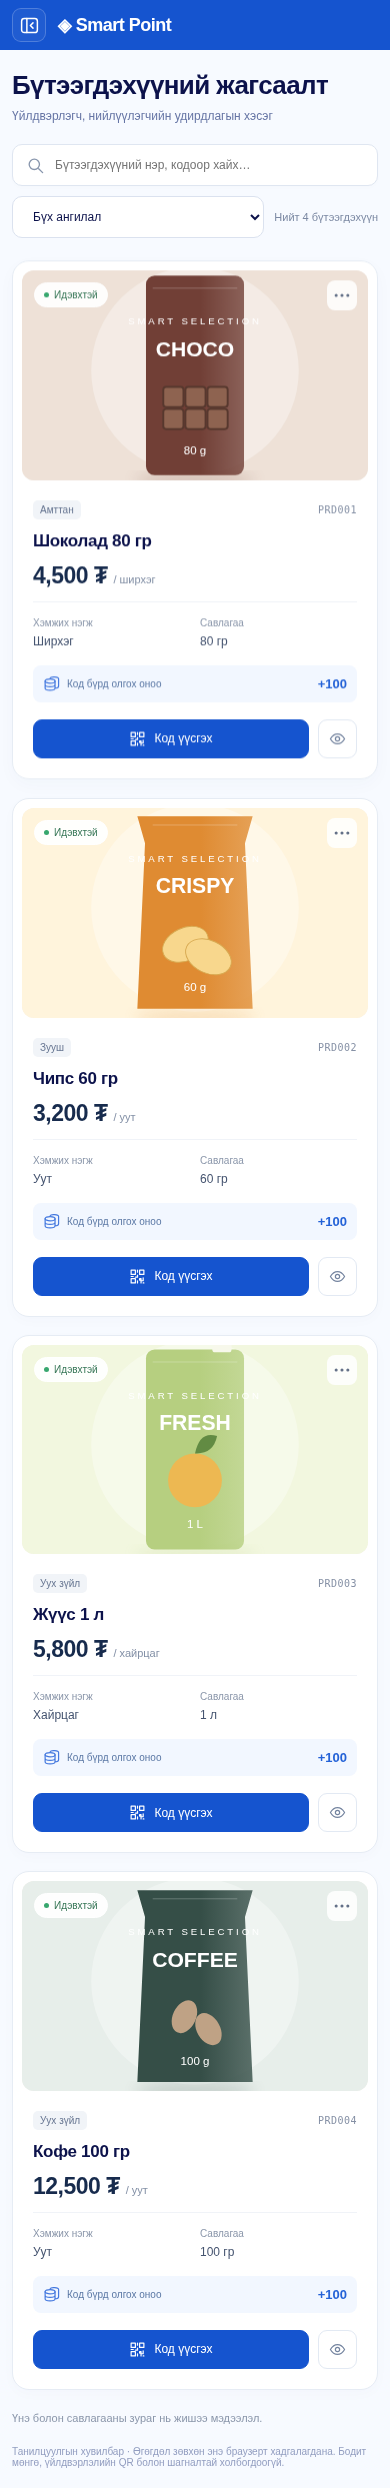
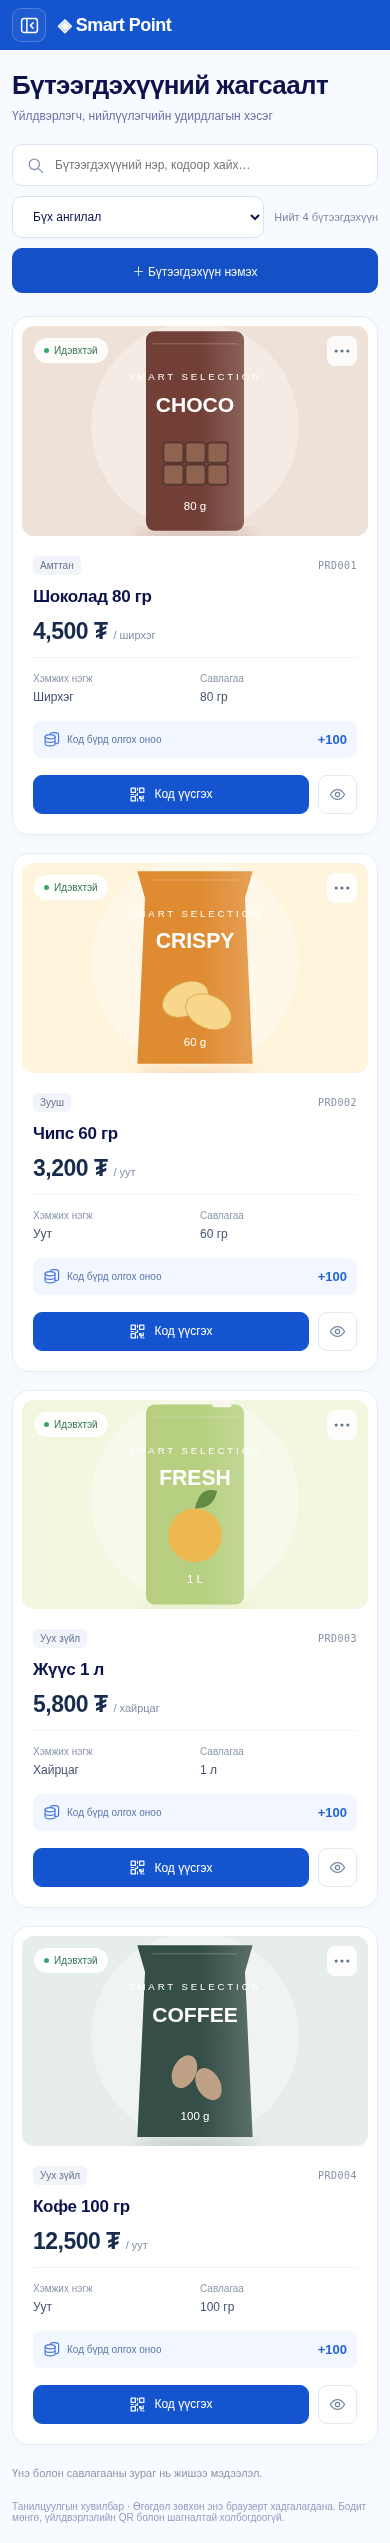
Add product creation dialog with image upload and persistent catalog

diff --git a/assets/app.js b/assets/app.js
@@ -1,12 +1,12 @@
 'use strict';
 const $=id=>document.getElementById(id), fmt=n=>Number(n).toLocaleString('en-US'), esc=s=>String(s).replace(/[&<>"']/g,c=>({'&':'&amp;','<':'&lt;','>':'&gt;','"':'&quot;',"'":'&#39;'}[c]));
 const today=()=>new Date().toISOString().slice(0,10);const seed={balance:24850,rate:100,spinCost:500,codes:[],transactions:[{title:'Шоколад 80 гр',amount:100,date:today(),kind:'Код'},{title:'Купон худалдан авалт',amount:-500,date:today(),kind:'Купон'}],claims:[],completed:[],users:[['Б.Ануударь','9901 2345'],['Г.Энхбат','8811 5678'],['С.Уянга','9966 7788'],['Д.Цэцэг','8800 1122'],['М.Оргил','9911 3344']]};let db,storageAvailable=true;try{db=JSON.parse(localStorage.getItem('smartpoint-v1'))||structuredClone(seed)}catch{db=structuredClone(seed);storageAvailable=false}let page='dashboard';
-function save(){try{localStorage.setItem('smartpoint-v1',JSON.stringify(db))}catch{storageAvailable=false;toast('Браузер хадгалах боломжгүй. Өгөгдөл зөвхөн энэ хуудсанд үлдэнэ.')}}function toast(t){$('toast').textContent=t;$('toast').style.display='block';clearTimeout(toast.timer);toast.timer=setTimeout(()=>$('toast').style.display='none',4000)}function modal(title,body){$('dialogTitle').textContent=title;$('dialogBody').innerHTML=body;$('dialog').showModal()}$('close').onclick=()=>$('dialog').close();$('menu').onclick=()=>{if(matchMedia('(max-width:600px)').matches){const open=$('sidebar').classList.toggle('open');$('menu').setAttribute('aria-expanded',String(open));}else{const collapsed=document.body.classList.toggle('sidebar-collapsed');$('menu').setAttribute('aria-expanded',String(!collapsed));$('menu').title=collapsed?'Цэс дэлгэх':'Цэс хураах';}};
+function save(){try{localStorage.setItem('smartpoint-v1',JSON.stringify(db));return true}catch{storageAvailable=false;toast('Браузер хадгалах боломжгүй. Өгөгдөл зөвхөн энэ хуудсанд үлдэнэ.');return false}}function toast(t){$('toast').textContent=t;$('toast').style.display='block';clearTimeout(toast.timer);toast.timer=setTimeout(()=>$('toast').style.display='none',4000)}function modal(title,body){$('dialogTitle').textContent=title;$('dialogBody').innerHTML=body;$('dialog').showModal()}$('close').onclick=()=>$('dialog').close();$('menu').onclick=()=>{if(matchMedia('(max-width:600px)').matches){const open=$('sidebar').classList.toggle('open');$('menu').setAttribute('aria-expanded',String(open));}else{const collapsed=document.body.classList.toggle('sidebar-collapsed');$('menu').setAttribute('aria-expanded',String(!collapsed));$('menu').title=collapsed?'Цэс дэлгэх':'Цэс хураах';}};
 
 const adminMenu=[
 ['dashboard','Хяналтын самбар',[]],
 ['settings','Тохиргоо',[['organization','Байгууллагын мэдээлэл'],['staff','Ажилтнууд'],['roles','Албан үүрэг, хандах эрх'],['audit','Үйлдлийн түүх']]],
-['products','Бүтээгдэхүүн',[['product-list','Бүтээгдэхүүний жагсаалт'],['categories','Ангилал'],['batches','Бүтээгдэхүүний цуврал']]],
+['products','Бүтээгдэхүүн',[['product-list','Бүтээгдэхүүний жагсаалт'],['product-new','Шинэ бүтээгдэхүүн'],['categories','Ангилал'],['batches','Бүтээгдэхүүний цуврал']]],
 ['codes','Unique код / QR',[['code-list','Кодын жагсаалт'],['code-generate','Бөөнөөр код үүсгэх'],['code-print','Хэвлэлд гаргах'],['code-activate','Идэвхжүүлэх / идэвхгүй болгох'],['code-history','Код ашиглалтын түүх']]],
 ['points','Оноо',[['point-rules','Оноо олгох нөхцөл'],['point-expiry','Онооны хүчинтэй хугацаа'],['point-transactions','Онооны гүйлгээ']]],
 ['wheel','Хүрд',[['wheel-list','Хүрдний жагсаалт'],['wheel-prizes','Шагнал, магадлал, нөөц'],['wheel-rules','Эргүүлэх эрхийн нөхцөл'],['wheel-history','Эргэлт, хожлын түүх']]],
@@ -20,26 +20,44 @@ const adminMenu=[
 let selectedAdmin='dashboard';const expandedMenus=new Set();
 function menuItem(item,depth=0){const [id,label,children=[]]=item;const selected=id===selectedAdmin;const contains=children.some(c=>c[0]===selectedAdmin||(c[2]||[]).some(d=>d[0]===selectedAdmin));return `<div class="menu-node"><button type="button" data-admin="${id}" title="${label}" ${children.length?`aria-expanded="${expandedMenus.has(id)}" aria-controls="submenu-${id}"`:selected?'aria-current="page"':''} class="menu-button depth-${depth} ${selected?'active':''} ${contains?'has-selection':''}">${depth===0?`<span class="menu-icon">${lineIcon(id==='fulfillment'?'gift':id)}</span>`:'<span class="menu-bullet"></span>'}<span class="menu-label">${label}</span>${children.length?`<span class="menu-chevron">${lineIcon('chevron')}</span>`:''}</button>${children.length?`<div id="submenu-${id}" class="submenu" ${expandedMenus.has(id)?'':'hidden'}>${children.map(c=>menuItem(c,depth+1)).join('')}</div>`:''}</div>`}
 function findAdmin(id,items=adminMenu){for(const item of items){if(item[0]===id)return item;const child=findAdmin(id,item[2]||[]);if(child)return child}return null}
-const routes={'product-list':'products','code-list':'codes','code-generate':'codes','code-print':'codes','code-activate':'codes','point-rules':'settings','point-transactions':'points','user-list':'users','user-points':'points','report-points':'reports'};
+const routes={'product-list':'products','product-new':'products','code-list':'codes','code-generate':'codes','code-print':'codes','code-activate':'codes','point-rules':'settings','point-transactions':'points','user-list':'users','user-points':'points','report-points':'reports'};
 function go(p){page=p;{const group=adminMenu.find(x=>x[0]===p);if(group&&group[2].length){expandedMenus.add(p);selectedAdmin=group[2][0][0]}else selectedAdmin=p;}render();$('sidebar').classList.remove('open');window.scrollTo(0,0)}
-function render(){$('nav').innerHTML=`<div class="menu-controls"><button type="button" id="expandMenus">Бүгдийг дэлгэх</button><button type="button" id="collapseMenus">Хумих</button></div>`+adminMenu.map(i=>menuItem(i)).join('');$('expandMenus').onclick=()=>{function expand(items){items.forEach(i=>{if(i[2]?.length){expandedMenus.add(i[0]);expand(i[2]);}})}expand(adminMenu);render()};$('collapseMenus').onclick=()=>{expandedMenus.clear();render()};document.querySelectorAll('[data-admin]').forEach(b=>b.onclick=()=>{const id=b.dataset.admin,item=findAdmin(id);if(item[2]?.length){document.body.classList.remove('sidebar-collapsed');$('menu').setAttribute('aria-expanded','true');expandedMenus.has(id)?expandedMenus.delete(id):expandedMenus.add(id);render();return}selectedAdmin=id;page=id;render();$('sidebar').classList.remove('open');window.scrollTo(0,0)});const active=findAdmin(selectedAdmin);$('title').textContent=active[1];$('subtitle').textContent=selectedAdmin==='dashboard'?'Smart Point системийн үйл ажиллагааны нэгдсэн мэдээлэл':'Үйлдвэрлэгч, нийлүүлэгчийн удирдлагын хэсэг';$('filters').style.display=page==='dashboard'?'flex':'none';const views={dashboard,users,settings,products,codes,points,reports};const target=routes[selectedAdmin]||(selectedAdmin==='dashboard'?'dashboard':null);$('view').innerHTML=target?views[target]():panel(active[1],'<div class="empty"><p>Энэ хэсгийн цэс, дэлгэцийн бүтэц бэлэн боллоо.</p><p>Дэлгэрэнгүй удирдлагын боломжийг дараагийн хөгжүүлэлтээр нэмнэ.</p></div>');bind();}
+function render(){$('nav').innerHTML=`<div class="menu-controls"><button type="button" id="expandMenus">Бүгдийг дэлгэх</button><button type="button" id="collapseMenus">Хумих</button></div>`+adminMenu.map(i=>menuItem(i)).join('');$('expandMenus').onclick=()=>{function expand(items){items.forEach(i=>{if(i[2]?.length){expandedMenus.add(i[0]);expand(i[2]);}})}expand(adminMenu);render()};$('collapseMenus').onclick=()=>{expandedMenus.clear();render()};document.querySelectorAll('[data-admin]').forEach(b=>b.onclick=()=>{const id=b.dataset.admin,item=findAdmin(id);if(item[2]?.length){document.body.classList.remove('sidebar-collapsed');$('menu').setAttribute('aria-expanded','true');expandedMenus.has(id)?expandedMenus.delete(id):expandedMenus.add(id);render();return}selectedAdmin=id;page=id;render();$('sidebar').classList.remove('open');window.scrollTo(0,0);if(id==='product-new')openProductForm()});const active=findAdmin(selectedAdmin);$('title').textContent=active[1];$('subtitle').textContent=selectedAdmin==='dashboard'?'Smart Point системийн үйл ажиллагааны нэгдсэн мэдээлэл':'Үйлдвэрлэгч, нийлүүлэгчийн удирдлагын хэсэг';$('filters').style.display=page==='dashboard'?'flex':'none';const views={dashboard,users,settings,products,codes,points,reports};const target=routes[selectedAdmin]||(selectedAdmin==='dashboard'?'dashboard':null);$('view').innerHTML=target?views[target]():panel(active[1],'<div class="empty"><p>Энэ хэсгийн цэс, дэлгэцийн бүтэц бэлэн боллоо.</p><p>Дэлгэрэнгүй удирдлагын боломжийг дараагийн хөгжүүлэлтээр нэмнэ.</p></div>');bind();}
 
 function table(head,rows){return `<div class="table-wrap"><table><thead><tr>${head.map(x=>`<th>${x}</th>`).join('')}</tr></thead><tbody>${rows.join('')||`<tr><td colspan="${head.length}" class="empty">Одоогоор мэдээлэл алга</td></tr>`}</tbody></table></div>`}const tr=cells=>`<tr>${cells.map(x=>`<td>${x}</td>`).join('')}</tr>`;function panel(title,content,action=''){return `<section class="panel"><div class="panel-head"><h2>${title}</h2>${action}</div>${content}</section>`}function stat(icon,label,value,gain,previous){return `<div class="stat"><div class="stat-icon">${lineIcon(({'♙':'users','♙+':'addUser','▦':'codes','✓':'check','◎':'coins','♔':'gift','♧':'coupons','▤':'surveys','☑':'tasks'})[icon]||'points')}</div><div><div class="stat-label">${label}</div><div class="stat-value">${value}<span class="gain">↑ +${gain}%</span></div><small>Өмнөх хугацаа: ${previous}</small></div></div>`}
 function chart(){return `<svg class="chart" viewBox="0 0 800 180" role="img" aria-label="Жишээ онооны хөдөлгөөний график"><defs><linearGradient id="area" x1="0" y1="0" x2="0" y2="1"><stop stop-color="#38aaff" stop-opacity=".4"/><stop offset="1" stop-color="#38aaff" stop-opacity=".02"/></linearGradient></defs>${[20,55,90,125,160].map((y,i)=>`<line x1="55" y1="${y}" x2="790" y2="${y}" stroke="#e8edf5" stroke-dasharray="4 3"/><text x="2" y="${y+4}">${fmt(400000-i*100000)}</text>`).join('')}<path d="M55 125 L100 108 L145 111 L190 90 L235 80 L280 51 L325 72 L370 104 L415 95 L460 84 L505 80 L550 65 L595 104 L640 98 L685 103 L730 83 L780 92 L780 160 L55 160Z" fill="url(#area)"/><polyline points="55,125 100,108 145,111 190,90 235,80 280,51 325,72 370,104 415,95 460,84 505,80 550,65 595,104 640,98 685,103 730,83 780,92" fill="none" stroke="#0866ff" stroke-width="2.5"/><path d="M55 145 L100 139 L145 135 L190 129 L235 127 L280 110 L325 118 L370 136 L415 129 L460 115 L505 123 L550 116 L595 130 L640 122 L685 131 L730 123 L780 124" fill="none" stroke="#00bfb5" stroke-width="2.5"/>${Array.from({length:16},(_,i)=>`<text x="${52+i*47}" y="177">10/${String(i+1).padStart(2,'0')}</text>`).join('')}</svg>`}
 function dashboard(){return `<div class="stats">${stat('♙','Нийт хэрэглэгч','12,560',12,'11,220')}${stat('♙+','Шинээр бүртгэгдсэн','620',18,'525')}${stat('▦','Үүсгэсэн Unique код',fmt(150000+db.codes.length),25,'120,000')}${stat('✓','Ашигласан Unique код',fmt(98450+db.codes.filter(c=>c.used).length),22,'80,750')}</div><div class="stats secondary">${stat('◎','Олгосон оноо','4,850,000',20,'4,040,000')}${stat('◎','Зарцуулсан оноо','1,920,000',15,'1,670,000')}${stat('♔','Хүрд эргүүлсэн','3,450',28,'2,690')}${stat('♧','Купон худалдан авалт','1,280',16,'1,100')}${stat('▤','Судалгаанд оролцсон','2,150',35,'1,590')}${stat('☑','Даалгавар гүйцэтгэсэн','1,780',32,'1,590')}</div><div class="charts">${panel('Онооны хөдөлгөөн',chart(),'<div class="legend"><span><i class="dot"></i>Олгосон оноо</span><span><i class="dot" style="background:#00bfb5"></i>Зарцуулсан оноо</span></div>')}${panel('Онооны зарцуулалт (төрлөөр)',`<div class="donut-wrap"><div class="donut"><div>1,920,000<small>Нийт зарцуулсан<br>оноо</small></div></div><div class="donut-labels">${['Купон','Хүрд','Даалгавар','Судалгаа','Бусад'].map((x,i)=>`<div><i class="dot" style="background:${['#0966ff','#850dff','#ffad08','#ffbd32','#8997b4'][i]}"></i>${x}<b>${[42,28,15,10,5][i]}%</b></div>`).join('')}</div></div>`)}</div><div class="tables">${panel('Сүүлд бүртгүүлсэн хэрэглэгчид',dashboardUsers(),'<button data-go="users">Бүгдийг харах ›</button>')}${panel('Сүүлийн Unique кодын ашиглалт',dashboardCodes(),'<button data-go="codes">Бүгдийг харах ›</button>')}${panel('Сүүлийн урамшууллын үйл ажиллагаа',dashboardActivity(),'<button data-go="points">Бүгдийг харах ›</button>')}</div>`}
 function userTable(){return table(['№','Нэр','Утас','Төлөв'],db.users.map((u,i)=>tr([i+1,esc(u[0]),esc(u[1]),'<span class="badge">Идэвхтэй</span>'])))}function users(){return panel('Бүртгэлтэй хэрэглэгчид',`<div class="toolbar"><input id="search" placeholder="Нэр эсвэл утсаар хайх" aria-label="Хэрэглэгч хайх"></div><div id="userResults">${userTable()}</div>`)}
 function settings(){return panel('Үйлдвэрлэгч, нийлүүлэгчийн оноо олгох нөхцөл',`<form id="settingsForm"><div class="toolbar"><label>Бүтээгдэхүүний код бүрд олгох оноо<input id="rate" type="number" required min="1" max="100000" value="${db.rate}"></label><label>Хүрд эргүүлэх үнэ (оноо)<input id="spinCost" type="number" required min="1" max="100000" value="${db.spinCost}"></label><button class="primary">Хадгалах</button></div></form><p>Өөрчлөлтөөс хойш ашигласан код болон хүрдэд шинэ нөхцөл үйлчилнэ. Админ эрхийн серверийн баталгаажуулалт энэ хувилбарт ороогүй.</p>`)}
-const productList=[['PRD001','Шоколад 80 гр','🍫'],['PRD002','Чипс 60 гр','🥔'],['PRD003','Жүүс 1 л','🧃'],['PRD004','Кофе 100 гр','☕']];const productDetails=[{code:'PRD001',name:'Шоколад 80 гр',category:'Амттан',price:4500,unit:'Ширхэг',size:'80 гр',image:'chocolate'},{code:'PRD002',name:'Чипс 60 гр',category:'Зууш',price:3200,unit:'Уут',size:'60 гр',image:'chips'},{code:'PRD003',name:'Жүүс 1 л',category:'Уух зүйл',price:5800,unit:'Хайрцаг',size:'1 л',image:'juice'},{code:'PRD004',name:'Кофе 100 гр',category:'Уух зүйл',price:12500,unit:'Уут',size:'100 гр',image:'coffee'}];
-function productCard(p){return `<article class="product-card"><div class="product-image"><img src="assets/products/${p.image}.svg" alt="${p.name} бүтээгдэхүүний жишээ савлагаа"><span class="product-status"><i></i>Идэвхтэй</span><button class="product-more" data-detail="${p.code}" aria-label="${p.name} дэлгэрэнгүй">${lineIcon('more')}</button></div><div class="product-content"><div class="product-meta"><span>${p.category}</span><code>${p.code}</code></div><h2>${p.name}</h2><div class="product-price">${fmt(p.price)} ₮ <small>/ ${p.unit.toLowerCase()}</small></div><dl class="product-specs"><div><dt>Хэмжих нэгж</dt><dd>${p.unit}</dd></div><div><dt>Савлагаа</dt><dd>${p.size}</dd></div></dl><div class="product-points">${lineIcon('coins')}<span>Код бүрд олгох оноо</span><strong>+${fmt(db.rate)}</strong></div><div class="product-actions"><button class="primary" data-product-code="${p.code}">${lineIcon('codes')} Код үүсгэх</button><button data-detail="${p.code}" aria-label="${p.name} мэдээлэл харах">${lineIcon('eye')}</button></div></div></article>`}
-function products(){return `<div class="product-toolbar"><div class="product-search">${lineIcon('search')}<input id="productSearch" aria-label="Бүтээгдэхүүн хайх" placeholder="Бүтээгдэхүүний нэр, кодоор хайх…"></div><select id="categoryFilter" aria-label="Ангиллаар шүүх"><option value="">Бүх ангилал</option>${[...new Set(productDetails.map(p=>p.category))].map(c=>`<option>${c}</option>`).join('')}</select><span id="productCount">Нийт ${productDetails.length} бүтээгдэхүүн</span></div><div class="product-grid" id="productGrid">${productDetails.map(productCard).join('')}</div><p class="product-note">Үнэ болон савлагааны зураг нь жишээ мэдээлэл.</p>`}
-function bindProductActions(){document.querySelectorAll('[data-detail]').forEach(b=>b.onclick=()=>{const p=productDetails.find(p=>p.code===b.dataset.detail);modal('Бүтээгдэхүүний мэдээлэл',`<img class="product-detail-image" src="assets/products/${p.image}.svg" alt="${p.name}"><h2>${p.name}</h2><dl class="detail-specs"><div><dt>Бүтээгдэхүүний код</dt><dd>${p.code}</dd></div><div><dt>Ангилал</dt><dd>${p.category}</dd></div><div><dt>Үнэ</dt><dd>${fmt(p.price)} ₮</dd></div><div><dt>Хэмжих нэгж</dt><dd>${p.unit}</dd></div><div><dt>Савлагаа</dt><dd>${p.size}</dd></div><div><dt>Олгох оноо</dt><dd>${fmt(db.rate)}</dd></div></dl>`)});document.querySelectorAll('[data-product-code]').forEach(b=>b.onclick=()=>{const p=productDetails.find(p=>p.code===b.dataset.productCode);go('codes');$('product').value=p.name;$('quantity').focus()})}
+const initialProducts=[{code:'PRD001',name:'Шоколад 80 гр',category:'Амттан',price:4500,unit:'Ширхэг',size:'80 гр',image:'chocolate'},{code:'PRD002',name:'Чипс 60 гр',category:'Зууш',price:3200,unit:'Уут',size:'60 гр',image:'chips'},{code:'PRD003',name:'Жүүс 1 л',category:'Уух зүйл',price:5800,unit:'Хайрцаг',size:'1 л',image:'juice'},{code:'PRD004',name:'Кофе 100 гр',category:'Уух зүйл',price:12500,unit:'Уут',size:'100 гр',image:'coffee'}];
+const productDetails=Array.isArray(db.products)?db.products:structuredClone(initialProducts);const productList=productDetails.map(p=>[p.code,p.name]);
+function productImage(p){return p.imageData||'assets/products/'+p.image+'.svg'}
+function productCard(p){return `<article class="product-card"><div class="product-image"><img src="${esc(productImage(p))}" alt="${esc(p.name)} бүтээгдэхүүний зураг"><span class="product-status"><i></i>Идэвхтэй</span><button class="product-more" data-detail="${esc(p.code)}" aria-label="${esc(p.name)} дэлгэрэнгүй">${lineIcon('more')}</button></div><div class="product-content"><div class="product-meta"><span>${esc(p.category)}</span><code>${esc(p.code)}</code></div><h2>${esc(p.name)}</h2><div class="product-price">${fmt(p.price)} ₮ <small>/ ${esc(p.unit.toLowerCase())}</small></div><dl class="product-specs"><div><dt>Хэмжих нэгж</dt><dd>${esc(p.unit)}</dd></div><div><dt>Савлагаа</dt><dd>${esc(p.size)}</dd></div></dl><div class="product-points">${lineIcon('coins')}<span>Код бүрд олгох оноо</span><strong>+${fmt(db.rate)}</strong></div><div class="product-actions"><button class="primary" data-product-code="${esc(p.code)}">${lineIcon('codes')} Код үүсгэх</button><button data-detail="${esc(p.code)}" aria-label="${esc(p.name)} мэдээлэл харах">${lineIcon('eye')}</button></div></div></article>`}
+function products(){return `<div class="product-toolbar"><div class="product-search">${lineIcon('search')}<input id="productSearch" aria-label="Бүтээгдэхүүн хайх" placeholder="Бүтээгдэхүүний нэр, кодоор хайх…"></div><select id="categoryFilter" aria-label="Ангиллаар шүүх"><option value="">Бүх ангилал</option>${[...new Set(productDetails.map(p=>p.category))].map(c=>`<option>${esc(c)}</option>`).join('')}</select><span id="productCount">Нийт ${productDetails.length} бүтээгдэхүүн</span><button class="primary add-product" id="addProduct">＋ Бүтээгдэхүүн нэмэх</button></div><div class="product-grid" id="productGrid">${productDetails.map(productCard).join('')}</div><p class="product-note">Эхний 4 бүтээгдэхүүний үнэ, зураг нь жишээ мэдээлэл. Нэмсэн бараа энэ браузерт хадгалагдана.</p>`}
+function openProductForm(){
+modal('Шинэ бүтээгдэхүүн нэмэх',`<p class="form-description">Барааны мэдээллээ оруулаад жагсаалтдаа нэмээрэй.</p><form id="newProductForm"><div class="product-form-grid"><label>Бүтээгдэхүүний код <span class="required">*</span><input name="code" required maxlength="40" placeholder="PRD005" autocomplete="off"></label><label>Бүтээгдэхүүний нэр <span class="required">*</span><input name="name" required maxlength="120" placeholder="Жишээ: Сүү 1 л"></label><label>Үнэ (₮) <span class="required">*</span><input name="price" type="number" required min="0" max="1000000000" step="0.01" placeholder="4500"></label><label>Хэмжих нэгж <span class="required">*</span><select name="unit"><option>Ширхэг</option><option>Уут</option><option>Хайрцаг</option><option>Сав</option><option>Кг</option><option>Литр</option><option>Багц</option></select></label><label>Ангилал <span class="required">*</span><input name="category" list="productCategories" required maxlength="60" placeholder="Сүүн бүтээгдэхүүн"><datalist id="productCategories">${[...new Set(productDetails.map(p=>p.category))].map(c=>`<option value="${esc(c)}">`).join('')}</datalist></label><label>Савлагаа / хэмжээ <span class="required">*</span><input name="size" required maxlength="60" placeholder="1 л, 500 гр…"></label></div><label class="image-upload-label">Бүтээгдэхүүний зураг<input id="productImageFile" type="file" accept="image/png,image/jpeg,image/webp"><small>PNG, JPG, WebP · 1 MB хүртэл. Зураггүй бол жишээ дүрс ашиглана.</small></label><img id="newImagePreview" class="new-image-preview" alt="Сонгосон бүтээгдэхүүний зураг" hidden><p id="productFormError" class="error" role="alert"></p><div class="product-form-actions"><button type="button" id="cancelProduct">Болих</button><button type="submit" class="primary" id="saveProduct">Хадгалах</button></div></form>`);
+$('dialog').classList.add('product-form-dialog');let imageData='',imageReady=true;const form=$('newProductForm');
+$('cancelProduct').onclick=()=>$('dialog').close();
+$('productImageFile').onchange=async e=>{const file=e.target.files[0];imageData='';$('newImagePreview').hidden=true;$('productFormError').textContent='';if(!file)return;
+if(!['image/png','image/jpeg','image/webp'].includes(file.type)||file.size>1024*1024){$('productFormError').textContent='PNG, JPG эсвэл WebP зураг сонгоно уу. Хэмжээ 1 MB-аас ихгүй байна.';e.target.value='';return;}
+imageReady=false;$('saveProduct').disabled=true;try{const data=await new Promise((resolve,reject)=>{const reader=new FileReader();reader.onload=()=>resolve(reader.result);reader.onerror=reject;reader.readAsDataURL(file)});await new Promise((resolve,reject)=>{const img=new Image();img.onload=resolve;img.onerror=reject;img.src=data});imageData=data;$('newImagePreview').src=data;$('newImagePreview').hidden=false;}catch{$('productFormError').textContent='Зургийг унших боломжгүй. Өөр зураг сонгоно уу.';e.target.value='';}finally{imageReady=true;$('saveProduct').disabled=false;}};
+form.onsubmit=e=>{e.preventDefault();if(!imageReady)return;const values=new FormData(form),item={};for(const key of ['code','name','category','unit','size'])item[key]=String(values.get(key)||'').trim();item.code=item.code.toUpperCase();item.price=Number(values.get('price'));item.image='default';if(imageData)item.imageData=imageData;
+if(['code','name','category','unit','size'].some(k=>!item[k])){$('productFormError').textContent='Заавал бөглөх мэдээллээ бүрэн оруулна уу.';return;}
+if(!/^[A-Z0-9_-]+$/.test(item.code)){$('productFormError').textContent='Кодод латин үсэг, тоо, зураас болон доогуур зураас ашиглана уу.';return;}
+if(productDetails.some(p=>p.code.toUpperCase()===item.code)){$('productFormError').textContent='Энэ бүтээгдэхүүний код бүртгэлтэй байна. Өөр код оруулна уу.';return;}
+if(!Number.isFinite(item.price)||item.price<0||item.price>1000000000){$('productFormError').textContent='Үнийг зөв оруулна уу.';return;}
+productDetails.unshift(item);db.products=productDetails;if(!save()){productDetails.shift();$('productFormError').textContent='Хадгалах зай хүрэлцэхгүй эсвэл браузер хадгалах эрхгүй байна. Жижиг зураг ашиглан дахин оролдоно уу.';return;}
+productList.unshift([item.code,item.name]);$('dialog').close();expandedMenus.add('products');selectedAdmin='product-list';page='product-list';render();toast('Шинэ бүтээгдэхүүн нэмэгдлээ');};
+}
+$('dialog').addEventListener('close',()=>$('dialog').classList.remove('product-form-dialog'));
+function bindProductActions(){document.querySelectorAll('[data-detail]').forEach(b=>b.onclick=()=>{const p=productDetails.find(p=>p.code===b.dataset.detail);modal('Бүтээгдэхүүний мэдээлэл',`<img class="product-detail-image" src="${esc(productImage(p))}" alt="${esc(p.name)}"><h2>${esc(p.name)}</h2><dl class="detail-specs"><div><dt>Бүтээгдэхүүний код</dt><dd>${esc(p.code)}</dd></div><div><dt>Ангилал</dt><dd>${esc(p.category)}</dd></div><div><dt>Үнэ</dt><dd>${fmt(p.price)} ₮</dd></div><div><dt>Хэмжих нэгж</dt><dd>${esc(p.unit)}</dd></div><div><dt>Савлагаа</dt><dd>${esc(p.size)}</dd></div><div><dt>Олгох оноо</dt><dd>${fmt(db.rate)}</dd></div></dl>`)});document.querySelectorAll('[data-product-code]').forEach(b=>b.onclick=()=>{const p=productDetails.find(p=>p.code===b.dataset.productCode);go('codes');$('product').value=p.name;$('quantity').focus()})}
 
 function codeTable(short=false){return table(['Код','Бүтээгдэхүүн','Төлөв',...(short?[]:['Үйлдэл'])],db.codes.slice(0,short?5:500).map(c=>tr([`<span class="code">${esc(c.code)}</span>`,esc(c.product),`<span class="badge ${!c.active?'pending':''}">${c.used?'Ашигласан':c.active?'Идэвхтэй':'Идэвхгүй'}</span>`,...(short?[]:[!c.active?`<button data-activate="${esc(c.code)}">Идэвхжүүлэх</button>`:'—'])])))}
-function codes(){return panel('Бүтээгдэхүүний цуврал код',`<div class="help">Туршилтын нэг удаагийн текст кодууд. CSV татах, хэвлэх боломжтой; хэвлэлийн QR дүрс болон серверийн нууцлал хараахан хийгдээгүй.</div><form id="generateForm" class="toolbar"><label>Бүтээгдэхүүн<select id="product">${productList.map(p=>`<option>${p[1]}</option>`).join('')}</select></label><label>Тоо ширхэг (1–500)<input id="quantity" type="number" min="1" max="500" value="10" required></label><button class="primary">＋ Код үүсгэх</button><button type="button" id="activateAll">Бүгдийг идэвхжүүлэх</button><button type="button" id="csv">CSV татах</button><button type="button" id="print">Хэвлэх</button></form><p>Нийт ${db.codes.length} код · Ашигласан ${db.codes.filter(c=>c.used).length}</p>${codeTable()}`)}
+function codes(){return panel('Бүтээгдэхүүний цуврал код',`<div class="help">Туршилтын нэг удаагийн текст кодууд. CSV татах, хэвлэх боломжтой; хэвлэлийн QR дүрс болон серверийн нууцлал хараахан хийгдээгүй.</div><form id="generateForm" class="toolbar"><label>Бүтээгдэхүүн<select id="product">${productList.map(p=>`<option>${esc(p[1])}</option>`).join('')}</select></label><label>Тоо ширхэг (1–500)<input id="quantity" type="number" min="1" max="500" value="10" required></label><button class="primary">＋ Код үүсгэх</button><button type="button" id="activateAll">Бүгдийг идэвхжүүлэх</button><button type="button" id="csv">CSV татах</button><button type="button" id="print">Хэвлэх</button></form><p>Нийт ${db.codes.length} код · Ашигласан ${db.codes.filter(c=>c.used).length}</p>${codeTable()}`)}
 function transactionTable(limit=500){return table(['Төрөл','Тайлбар','Огноо','Оноо'],db.transactions.slice(0,limit).map(t=>tr([esc(t.kind),esc(t.title),t.date,`<span class="${t.amount>=0?'badge':'error'}">${t.amount>=0?'+':''}${fmt(t.amount)}</span>`])))}function points(){return panel('Хэрэглэгчдийн онооны гүйлгээ',`<p>Эцсийн хэрэглэгчдэд олгосон болон зарцуулсан онооны бүртгэл. Доорх нь жишээ хэрэглэгчийн туршилтын гүйлгээ.</p>${transactionTable()}`)}
 function reports(){const earned=db.transactions.filter(t=>t.amount>0).reduce((a,t)=>a+t.amount,0),spent=-db.transactions.filter(t=>t.amount<0).reduce((a,t)=>a+t.amount,0);return panel('Туршилтын гүйлгээний тайлан',`<div class="toolbar"><button id="reportCsv">Тайлан CSV татах</button></div><p>Бүртгэгдсэн орлого: ${fmt(earned)} оноо · Зарлага: ${fmt(spent)} оноо · Эхний жишээ үлдэгдэл нь тайланд орлого болж бүртгэгдэхгүй.</p>${transactionTable()}`)}
 function download(name,rows){const content='\uFEFF'+rows.map(row=>row.map(x=>'"'+String(x).replace(/"/g,'""')+'"').join(',')).join('\r\n');const url=URL.createObjectURL(new Blob([content],{type:'text/csv;charset=utf-8'})),a=document.createElement('a');a.href=url;a.download=name;a.click();setTimeout(()=>URL.revokeObjectURL(url),1000)}
-function bind(){bindProductActions();if($('productSearch')){const filter=()=>{const term=$('productSearch').value.trim().toLowerCase(),category=$('categoryFilter').value;const found=productDetails.filter(p=>(p.name+' '+p.code).toLowerCase().includes(term)&&(!category||p.category===category));$('productGrid').innerHTML=found.length?found.map(productCard).join(''):'<div class="product-empty">'+lineIcon('search')+'<h2>Бүтээгдэхүүн олдсонгүй</h2><p>Хайх үг эсвэл ангиллаа өөрчлөөд үзээрэй.</p></div>';$('productCount').textContent=found.length+' бүтээгдэхүүн';bindProductActions()};$('productSearch').oninput=filter;$('categoryFilter').onchange=filter;}document.querySelectorAll('[data-go]').forEach(b=>b.onclick=()=>go(b.dataset.go));if($('search'))$('search').oninput=e=>{const term=e.target.value.toLowerCase();$('userResults').innerHTML=table(['№','Нэр','Утас','Төлөв'],db.users.filter(u=>u.join(' ').toLowerCase().includes(term)).map((u,i)=>tr([i+1,esc(u[0]),esc(u[1]),'<span class="badge">Идэвхтэй</span>'])))};if($('settingsForm'))$('settingsForm').onsubmit=e=>{e.preventDefault();db.rate=Number($('rate').value);db.spinCost=Number($('spinCost').value);save();toast('Нөхцөл хадгалагдлаа')};if($('generateForm'))$('generateForm').onsubmit=e=>{e.preventDefault();const n=Number($('quantity').value);if(!Number.isInteger(n)||n<1||n>500)return;for(let i=0;i<n;i++)db.codes.unshift({code:'SP-'+crypto.randomUUID().replaceAll('-','').toUpperCase(),product:$('product').value,active:false,used:false});save();render();toast(`${n} код үүслээ`)};document.querySelectorAll('[data-activate]').forEach(b=>b.onclick=()=>{db.codes.find(c=>c.code===b.dataset.activate).active=true;save();render()});if($('activateAll'))$('activateAll').onclick=()=>{db.codes.forEach(c=>c.active=true);save();render();toast('Кодууд идэвхжлээ')};if($('csv'))$('csv').onclick=()=>download('smart-point-codes.csv',[['Код','Бүтээгдэхүүн','Идэвхтэй','Ашигласан'],...db.codes.map(c=>[c.code,c.product,c.active,c.used])]);if($('print'))$('print').onclick=()=>window.print();if($('reportCsv'))$('reportCsv').onclick=()=>download('smart-point-report.csv',[['Огноо','Төрөл','Тайлбар','Оноо'],...db.transactions.map(t=>[t.date,t.kind,t.title,t.amount])])}
+function bind(){bindProductActions();if($('addProduct'))$('addProduct').onclick=openProductForm;if($('productSearch')){const filter=()=>{const term=$('productSearch').value.trim().toLowerCase(),category=$('categoryFilter').value;const found=productDetails.filter(p=>(p.name+' '+p.code).toLowerCase().includes(term)&&(!category||p.category===category));$('productGrid').innerHTML=found.length?found.map(productCard).join(''):'<div class="product-empty">'+lineIcon('search')+'<h2>Бүтээгдэхүүн олдсонгүй</h2><p>Хайх үг эсвэл ангиллаа өөрчлөөд үзээрэй.</p></div>';$('productCount').textContent=found.length+' бүтээгдэхүүн';bindProductActions()};$('productSearch').oninput=filter;$('categoryFilter').onchange=filter;}document.querySelectorAll('[data-go]').forEach(b=>b.onclick=()=>go(b.dataset.go));if($('search'))$('search').oninput=e=>{const term=e.target.value.toLowerCase();$('userResults').innerHTML=table(['№','Нэр','Утас','Төлөв'],db.users.filter(u=>u.join(' ').toLowerCase().includes(term)).map((u,i)=>tr([i+1,esc(u[0]),esc(u[1]),'<span class="badge">Идэвхтэй</span>'])))};if($('settingsForm'))$('settingsForm').onsubmit=e=>{e.preventDefault();db.rate=Number($('rate').value);db.spinCost=Number($('spinCost').value);save();toast('Нөхцөл хадгалагдлаа')};if($('generateForm'))$('generateForm').onsubmit=e=>{e.preventDefault();const n=Number($('quantity').value);if(!Number.isInteger(n)||n<1||n>500)return;for(let i=0;i<n;i++)db.codes.unshift({code:'SP-'+crypto.randomUUID().replaceAll('-','').toUpperCase(),product:$('product').value,active:false,used:false});save();render();toast(`${n} код үүслээ`)};document.querySelectorAll('[data-activate]').forEach(b=>b.onclick=()=>{db.codes.find(c=>c.code===b.dataset.activate).active=true;save();render()});if($('activateAll'))$('activateAll').onclick=()=>{db.codes.forEach(c=>c.active=true);save();render();toast('Кодууд идэвхжлээ')};if($('csv'))$('csv').onclick=()=>download('smart-point-codes.csv',[['Код','Бүтээгдэхүүн','Идэвхтэй','Ашигласан'],...db.codes.map(c=>[c.code,c.product,c.active,c.used])]);if($('print'))$('print').onclick=()=>window.print();if($('reportCsv'))$('reportCsv').onclick=()=>download('smart-point-report.csv',[['Огноо','Төрөл','Тайлбар','Оноо'],...db.transactions.map(t=>[t.date,t.kind,t.title,t.amount])])}
 
 function lineIcon(name){const paths={chevron:'<path d="m8 10 4 4 4-4"/>',more:'<circle cx="5" cy="12" r="1"/><circle cx="12" cy="12" r="1"/><circle cx="19" cy="12" r="1"/>',search:'<circle cx="10.5" cy="10.5" r="6.5"/><path d="m16 16 5 5"/>',eye:'<path d="M2 12s4-7 10-7 10 7 10 7-4 7-10 7S2 12 2 12Z"/><circle cx="12" cy="12" r="3"/>',sidebar:'<rect x="3" y="4" width="18" height="16" rx="3"/><path d="M9 4v16m7-11-3 3 3 3"/>',users:'<path d="M16 21v-2a4 4 0 0 0-4-4H6a4 4 0 0 0-4 4v2M17 3a4 4 0 0 1 0 8M22 21v-2a4 4 0 0 0-3-3.87"/><circle cx="9" cy="7" r="4"/>',addUser:'<path d="M16 21v-2a4 4 0 0 0-4-4H6a4 4 0 0 0-4 4v2M20 8v6M17 11h6"/><circle cx="9" cy="7" r="4"/>',dashboard:'<rect x="3" y="3" width="7" height="7" rx="2"/><rect x="14" y="3" width="7" height="11" rx="2"/><rect x="3" y="14" width="7" height="7" rx="2"/><rect x="14" y="18" width="7" height="3" rx="1"/>',settings:'<path d="m9 3-1 3-3 1-2 4 2 3v4l4 3 3-1 3 1 4-3v-4l2-3-2-4-3-1-1-3Z"/><circle cx="12" cy="12" r="3"/>',products:'<path d="m12 3 9 5v9l-9 5-9-5V8Zm0 10 9-5M12 13 3 8m9 5v9M7 5l10 6"/>',codes:'<path d="M3 3h6v6H3zM15 3h6v6h-6zM3 15h6v6H3zM15 15h2v2h-2zM20 14v4h-3v3M21 21h-1M12 3v3M12 10v3H9M3 12h3M12 18v3"/>',points:'<circle cx="12" cy="12" r="9"/><circle cx="12" cy="12" r="4"/>',wheel:'<circle cx="12" cy="12" r="9"/><path d="m9 7 6 10M15 7 9 17M8 12h8"/>',coupons:'<path d="M3 5h18v5a2 2 0 0 0 0 4v5H3v-5a2 2 0 0 0 0-4Z M9 5v3M9 11v2M9 16v3"/>',surveys:'<path d="M6 2h9l5 5v15H6zM14 2v6h6M9 12h7M9 16h7"/>',tasks:'<rect x="4" y="3" width="16" height="19" rx="2"/><path d="m8 12 3 3 6-7M9 3v3h6V3"/>',reports:'<path d="M4 3v18h17M8 16l4-5 4 2 5-8M15 5h6v6"/>',coins:'<ellipse cx="10" cy="8" rx="7" ry="3"/><path d="M3 8v10c0 4 14 4 14 0V8M3 13c0 4 14 4 14 0M10 4c1-3 12-2 12 1v10c0 2-2 3-5 3"/>',gift:'<rect x="3" y="8" width="18" height="5" rx="1"/><path d="M5 13v9h14v-9M12 8v14M12 8C3 8 4 0 8 3l4 5c9 0 8-8 4-5Z"/>',check:'<path d="M21 11a9 9 0 1 1-6-8M8 10l4 4L22 3"/>'};return `<svg viewBox="0 0 24 24" fill="none" stroke="currentColor" stroke-width="1.7" stroke-linecap="round" stroke-linejoin="round" aria-hidden="true">${paths[name]||paths.points}</svg>`}
 function dashboardUsers(){return table(['№','Нэр','Утас','Бүртгүүлсэн огноо',''],db.users.slice(0,5).map((u,i)=>tr([i+1,esc(u[0]),esc(u[1]),'2026.10.'+(i<3?'16':'15')+' '+['11:20','10:45','09:30','18:20','17:10'][i],'<span class="ellipsis">···</span>'])))}

diff --git a/assets/style.css b/assets/style.css
@@ -16,3 +16,4 @@ header{background:#1554cf}
 #menu{display:grid;place-items:center;width:34px;height:34px;border:1px solid #ffffff36;border-radius:9px;background:#ffffff0c}#menu:hover{background:#ffffff20}#menu svg{width:21px;height:21px}#nav .menu-icon svg{width:20px;height:20px;stroke-width:1.65}#nav .menu-button{border-radius:8px;transition:background .15s,color .15s}#nav .menu-button:hover{background:#edf4ff;color:#1554cf}#nav .menu-chevron{display:flex;align-items:center;justify-content:center;width:20px!important;height:20px;border-radius:5px;background:#eef2f8}#nav .menu-chevron svg{width:16px;height:16px;transition:transform .2s}#nav [aria-expanded=true]>.menu-chevron svg{transform:rotate(180deg)}#nav .menu-button.active{background:#e9f1ff;color:#1554cf;box-shadow:none;font-weight:600}#nav .has-selection .menu-icon{color:#1554cf}.product-toolbar{display:flex;align-items:center;gap:12px;margin:5px 0 23px}.product-search{display:flex;align-items:center;gap:10px;max-width:410px;flex:1;background:white;border:1px solid #dfe6f1;border-radius:10px;padding:0 13px;box-shadow:0 2px 5px #19356103}.product-search svg{width:19px;height:19px;color:#8896ad;flex-shrink:0}.product-search input{padding:13px 0;border:0;width:100%;outline:none;background:transparent;font-size:12px}.product-search:focus-within{outline:2px solid #8cb6ff;outline-offset:2px}.product-toolbar select{padding:12px 16px;border-radius:10px;font-size:12px}.product-toolbar>span{font-size:12px;color:#7c89a3;margin-left:auto}.product-grid{display:grid;grid-template-columns:repeat(4,minmax(0,1fr));gap:20px}.product-card{background:#fff;border:1px solid #e6ecf4;border-radius:17px;overflow:hidden;box-shadow:0 4px 14px #19356105;transition:transform .2s,box-shadow .2s}.product-card:hover{transform:translateY(-3px);box-shadow:0 12px 30px #163c7610}.product-image{position:relative;margin:9px 9px 0;border-radius:12px;overflow:hidden;background:#f6f2ec;aspect-ratio:1.4}.product-image>img{width:100%;height:100%;display:block;object-fit:cover}.product-status{position:absolute;top:12px;left:12px;display:flex;align-items:center;gap:5px;background:#ffffffec;border:1px solid #fff;border-radius:20px;font-size:10px;padding:6px 9px;color:#367656}.product-status i{width:5px;height:5px;border-radius:50%;background:#38a76e}.product-more{position:absolute;right:11px;top:10px;padding:5px;background:#ffffffda;border:0;display:grid;place-items:center;border-radius:8px;color:#637087}.product-more svg{width:20px;height:20px}.product-content{padding:19px}.product-meta{display:flex;justify-content:space-between;gap:5px;align-items:center;margin-bottom:12px;font-size:10px;color:#8590a5}.product-meta>span{background:#f1f4f8;border-radius:5px;padding:4px 7px;color:#667591}.product-meta code{font-size:10px;letter-spacing:.5px}.product-content h2{font-size:17px;letter-spacing:-.3px;margin:0 0 11px}.product-price{font-size:23px;font-weight:700;letter-spacing:-.5px;color:#172b4d}.product-price small{font-size:11px;font-weight:400;color:#8390a6;letter-spacing:0}.product-specs{display:grid;grid-template-columns:1fr 1fr;gap:10px;padding:15px 0;margin:12px 0 0;border-top:1px solid #f0f3f8}.product-specs dt{font-size:10px;color:#8a96aa;margin-bottom:6px}.product-specs dd{margin:0;font-size:12px;color:#44536f;font-weight:500}.product-points{display:flex;align-items:center;gap:7px;font-size:10px;background:#f2f7ff;color:#5b78a5;padding:10px;border-radius:8px;margin:2px 0 17px}.product-points svg{width:17px;height:17px;color:#4579df}.product-points strong{font-size:13px;margin-left:auto;color:#2462d7}.product-actions{display:flex;gap:9px}.product-actions button{display:flex;align-items:center;justify-content:center;gap:8px;border-radius:9px;padding:10px;font-size:12px}.product-actions button.primary{flex:1;background:#1554cf!important;border-color:#1554cf!important}.product-actions svg{width:17px;height:17px}.product-actions button:not(.primary){color:#7585a0;border-color:#e2e9f3}.product-note{font-size:11px;margin-top:20px;color:#8a96aa}.product-empty{grid-column:1/-1;text-align:center;padding:60px;background:#fff;border:1px dashed #d8e1ef;border-radius:15px;color:#71819c}.product-empty svg{width:30px;height:30px;margin-bottom:17px}.product-detail-image{width:100%;height:180px;object-fit:contain;background:#f7f8fb;border-radius:12px;margin-bottom:20px}.detail-specs>div{display:flex;justify-content:space-between;border-bottom:1px solid #eef2f7;padding:12px 0;font-size:12px}.detail-specs dt{color:#8390a5}.detail-specs dd{margin:0;font-weight:600}.sidebar-collapsed #sidebar{width:74px;padding:18px 10px}.sidebar-collapsed main{margin-left:74px}.sidebar-collapsed #nav .menu-label,.sidebar-collapsed #nav .menu-chevron,.sidebar-collapsed #nav .submenu,.sidebar-collapsed #nav .menu-controls{display:none}.sidebar-collapsed #nav .depth-0{justify-content:center;padding:12px 0}.sidebar-collapsed #nav .menu-icon{width:21px}.sidebar-collapsed #menu svg{transform:rotate(180deg)}
 @media(min-width:1600px){.product-grid{gap:24px}.product-content{padding:22px}}@media(max-width:1250px){.product-grid{grid-template-columns:repeat(3,minmax(0,1fr))}}@media(max-width:1000px){.product-grid{grid-template-columns:repeat(2,minmax(0,1fr))}.product-toolbar{flex-wrap:wrap}.product-toolbar>span{margin-left:0}}@media(max-width:600px){.product-grid{grid-template-columns:1fr;gap:18px}.product-toolbar{gap:10px}.product-search{flex-basis:100%;max-width:none}.product-toolbar select{flex:1}.product-toolbar>span{font-size:11px}.product-image{aspect-ratio:1.65}.product-content{padding:20px}.sidebar-collapsed #sidebar{width:232px;padding:18px 15px}.sidebar-collapsed main{margin-left:0}.sidebar-collapsed #nav .menu-label,.sidebar-collapsed #nav .menu-chevron,.sidebar-collapsed #nav .menu-controls{display:flex}.sidebar-collapsed #nav .submenu:not([hidden]){display:block}.sidebar-collapsed #nav .depth-0{justify-content:flex-start;padding:11px 12px}}
 @media(prefers-reduced-motion:reduce){.product-card,#nav .menu-button,#nav .menu-chevron svg{transition:none}.product-card:hover{transform:none}}
+.product-toolbar .add-product{display:inline-flex;align-items:center;justify-content:center;white-space:nowrap;padding:12px 15px;border-radius:10px;font-size:12px;background:#1554cf!important;border-color:#1554cf!important}.product-form-dialog{width:660px;max-height:90vh;overflow:auto;padding:28px}.form-description{margin:0 0 22px;font-size:12px}.product-form-grid{display:grid;grid-template-columns:1fr 1fr;gap:17px}.product-form-grid label{display:block;font-size:12px;color:#465978}.product-form-grid input,.product-form-grid select{display:block;width:100%;margin-top:8px;min-width:0;border-radius:8px;padding:11px}.required{color:#e16a61}.image-upload-label{margin-top:22px!important;border:1px dashed #c7d8f2;border-radius:12px;padding:18px;background:#f8fbff}.image-upload-label small{font-size:11px;color:#8593aa}.image-upload-label input{font-size:12px;min-width:0;width:100%;padding:7px;background:white}.new-image-preview{width:100%;height:140px;object-fit:contain;background:#f5f8fd;border-radius:10px;margin-top:10px}.product-form-actions{display:flex;justify-content:flex-end;gap:8px;border-top:1px solid #e9eef6;padding-top:15px;margin-top:15px}.product-form-actions button{margin:0;min-width:100px}#productFormError{font-size:12px}#dialog .product-form-grid label{margin-bottom:0}.product-toolbar{flex-wrap:wrap}#dialog input:focus-visible,#dialog select:focus-visible{outline:2px solid #8cb6ff;outline-offset:2px}@media(max-width:600px){.product-form-grid{grid-template-columns:1fr;gap:14px}.product-form-dialog{padding:21px;max-height:90dvh}.product-toolbar .add-product{width:100%;padding:13px}.product-form-dialog h2{font-size:18px}}

diff --git a/index.html b/index.html
@@ -1,1 +1,1 @@
-<!doctype html><html lang="mn"><head><meta charset="utf-8"><meta name="viewport" content="width=device-width,initial-scale=1"><title>Smart Point Admin • Удирдлагын систем</title><link rel="stylesheet" href="assets/style.css?v=20261022-friendly"></head><body><header><button id="menu" aria-label="Цэс">☰</button><strong>◈ Smart Point</strong><span class="header-right">▦ &nbsp; SMART POINT ХХК <span class="avatar">АК</span> Админ хэрэглэгч</span></header><aside id="sidebar"><p class="muted">УДИРДЛАГА</p><nav id="nav"></nav><div class="sidebar-bottom">Smart Point v0.1<br><small>Туршилтын орчин • Local demo</small></div></aside><main><div class="title-row"><div><h1 id="title"></h1><p id="subtitle"></p></div><div id="filters"><input type="date" id="from" aria-label="Эхлэх огноо"><span>—</span><input type="date" id="to" aria-label="Дуусах огноо"><button data-days="7" class="selected">7 хоног</button><button data-days="30">30 хоног</button><button data-days="90">90 хоног</button></div></div><div id="view"></div><footer>Танилцуулгын хувилбар · Өгөгдөл зөвхөн энэ браузерт хадгалагдана. Бодит мөнгө, үйлдвэрлэлийн QR болон шагналтай холбогдоогүй.</footer></main><dialog id="dialog"><h2 id="dialogTitle"></h2><div id="dialogBody"></div><button id="close">Хаах</button></dialog><div id="toast" role="status"></div><script src="assets/app.js?v=20261022-friendly"></script></body></html>
+<!doctype html><html lang="mn"><head><meta charset="utf-8"><meta name="viewport" content="width=device-width,initial-scale=1"><title>Smart Point Admin • Удирдлагын систем</title><link rel="stylesheet" href="assets/style.css?v=20261022-product-add"></head><body><header><button id="menu" aria-label="Цэс">☰</button><strong>◈ Smart Point</strong><span class="header-right">▦ &nbsp; SMART POINT ХХК <span class="avatar">АК</span> Админ хэрэглэгч</span></header><aside id="sidebar"><p class="muted">УДИРДЛАГА</p><nav id="nav"></nav><div class="sidebar-bottom">Smart Point v0.1<br><small>Туршилтын орчин • Local demo</small></div></aside><main><div class="title-row"><div><h1 id="title"></h1><p id="subtitle"></p></div><div id="filters"><input type="date" id="from" aria-label="Эхлэх огноо"><span>—</span><input type="date" id="to" aria-label="Дуусах огноо"><button data-days="7" class="selected">7 хоног</button><button data-days="30">30 хоног</button><button data-days="90">90 хоног</button></div></div><div id="view"></div><footer>Танилцуулгын хувилбар · Өгөгдөл зөвхөн энэ браузерт хадгалагдана. Бодит мөнгө, үйлдвэрлэлийн QR болон шагналтай холбогдоогүй.</footer></main><dialog id="dialog"><h2 id="dialogTitle"></h2><div id="dialogBody"></div><button id="close">Хаах</button></dialog><div id="toast" role="status"></div><script src="assets/app.js?v=20261022-product-add"></script></body></html>

diff --git a/README.md b/README.md
@@ -29,3 +29,7 @@ python -m http.server 3000 --bind 0.0.0.0
 ## Бүтээгдэхүүний шинэ жагсаалт
 
 Зурагтай карт бүр код, нэр, ангилал, үнэ, хэмжих нэгж, савлагаа, олгох оноо харуулна. Нэр/кодоор хайх, ангиллаар шүүх, дэлгэрэнгүй харах болон сонгосон бүтээгдэхүүнд код үүсгэх рүү шилжих боломжтой. Савлагааны SVG зургууд болон үнэ нь жишээ мэдээлэл. Desktop дээр толгойн цэсний товчоор sidebar-ийг нарийсгаж болно; mobile дээр цэсийг нээнэ/хаана.
+
+## Шинэ бүтээгдэхүүн нэмэх
+
+Бүтээгдэхүүн → Шинэ бүтээгдэхүүн эсвэл жагсаалтын «Бүтээгдэхүүн нэмэх» товчоор ижил цонх нээнэ. Код, нэр, үнэ, хэмжих нэгж, ангилал, савлагаа оруулна. Зураг сонголттой (PNG/JPG/WebP, 1 MB хүртэл); зураггүй бол ерөнхий савлагааны дүрс ашиглана. Код давхардахгүй. Бүтээгдэхүүн болон зураг localStorage-д хадгалагдаж, дахин ачаалахад хэвээр байна. Шинэ барааг код үүсгэх сонголтод оруулна. Хадгалах зай хүрэлцээгүй бол цонхыг хаахгүй, дахин оролдох тайлбар харуулна. Бодит олон хэрэглэгчийн өгөгдлийн сангийн синхрончлол хараахан байхгүй.
